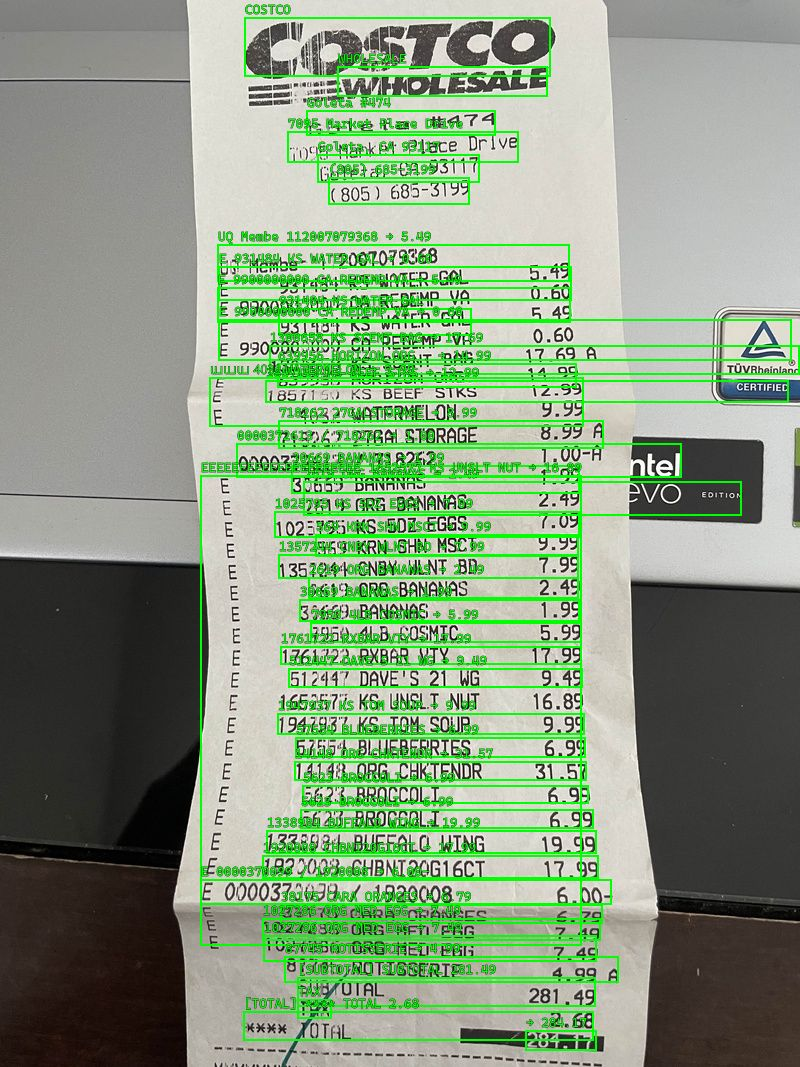
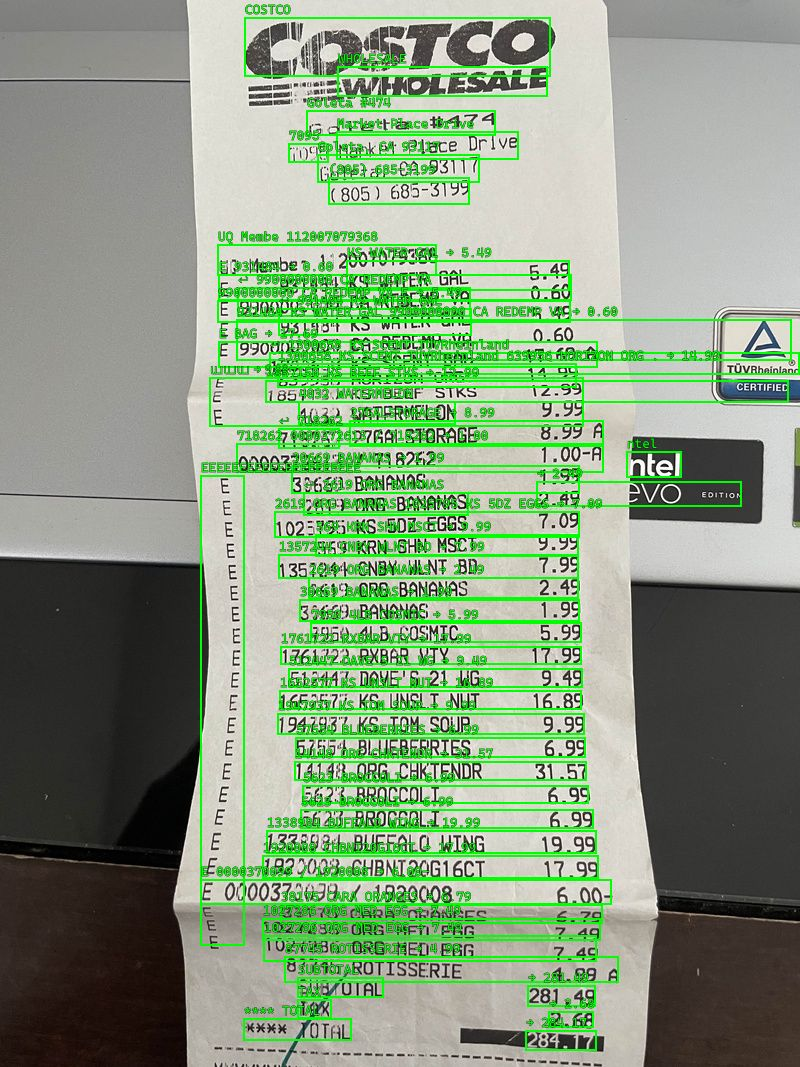
feat: output img has rotated boxes

Changed region(s): [[0.25, 0.2165, 1.0, 0.8969], [0.2812, 0.6186, 0.75, 0.9897], [0.3438, 0.0928, 0.6562, 0.1546]]

diff --git a/src/detect.ts b/src/detect.ts
@@ -6,7 +6,9 @@ import fs from 'fs';
 import path from 'path';
 
 import { reconstructLines } from './algorithm';
-import type { ReceiptLine } from './utils';
+import type { ReconstructionResult } from './algorithm';
+import type { ReceiptLine, Point } from './utils';
+import { rotatePoint } from './utils';
 
 type TextAnnotation = protos.google.cloud.vision.v1.IEntityAnnotation;
 type Vertex = protos.google.cloud.vision.v1.IVertex;
@@ -21,31 +23,55 @@ interface LineAnnotation {
 }
 
 /**
- * Merges all word bounding boxes in a line into one axis-aligned rectangle.
+ * Builds a rotated bounding box for a line:
+ *   1. Collect all original vertices from every word in the line.
+ *   2. Rotate them by −θ into the straightened coordinate system.
+ *   3. Compute the axis-aligned bounding box in that space.
+ *   4. Rotate the 4 AABB corners back by +θ into image space.
+ *
+ * The result is a tilted rectangle that follows the text baseline.
  */
-function mergeLineBoundingBox(
+function mergeRotatedBoundingBox(
   lineWords: TextAnnotation[],
+  angle: number,
 ): LineAnnotation['boundingPoly'] {
-  const allVerts = lineWords.flatMap((w) => w.boundingPoly?.vertices ?? []);
+  const allVerts = lineWords.flatMap((w) =>
+    (w.boundingPoly?.vertices ?? []).map((v) => ({
+      x: v.x ?? 0,
+      y: v.y ?? 0,
+    })),
+  );
+
   if (allVerts.length === 0) {
     const zero = { x: 0, y: 0 } as Required<Vertex>;
     return { vertices: [zero, zero, zero, zero] };
   }
 
-  const xs = allVerts.map((v) => v.x ?? 0);
-  const ys = allVerts.map((v) => v.y ?? 0);
-  const minX = Math.min(...xs);
-  const maxX = Math.max(...xs);
-  const minY = Math.min(...ys);
-  const maxY = Math.max(...ys);
+  // Rotate into straightened space
+  const rotated = allVerts.map((v) => rotatePoint(v, -angle));
+  const rxs = rotated.map((v) => v.x);
+  const rys = rotated.map((v) => v.y);
+  const minX = Math.min(...rxs);
+  const maxX = Math.max(...rxs);
+  const minY = Math.min(...rys);
+  const maxY = Math.max(...rys);
+
+  // AABB corners in rotated space (TL, TR, BR, BL)
+  const corners: Point[] = [
+    { x: minX, y: minY },
+    { x: maxX, y: minY },
+    { x: maxX, y: maxY },
+    { x: minX, y: maxY },
+  ];
+
+  // Rotate back into image space
+  const imageCorners = corners.map((c) => rotatePoint(c, angle));
 
   return {
-    vertices: [
-      { x: minX, y: minY },
-      { x: maxX, y: minY },
-      { x: maxX, y: maxY },
-      { x: minX, y: maxY },
-    ] as Required<Vertex>[],
+    vertices: imageCorners.map((c) => ({
+      x: Math.round(c.x),
+      y: Math.round(c.y),
+    })) as Required<Vertex>[],
   };
 }
 
@@ -134,13 +160,16 @@ async function detectTextLocal(filePath: string): Promise<void> {
   console.log(detections[0].description);
 
   // Reconstruct receipt lines using the hybrid algorithm
-  const receiptLines = reconstructLines(detections.slice(1));
+  const { lines: receiptLines, angle } = reconstructLines(detections.slice(1));
 
-  // Build line annotations for the annotated-image overlay
+  console.log(`\nEstimated rotation: ${(angle * 180 / Math.PI).toFixed(2)}°\n`);
+
+  // Build line annotations with rotated bounding boxes
   const lineAnnotations: LineAnnotation[] = receiptLines.map((line) => ({
     description: formatLineLabel(line),
-    boundingPoly: mergeLineBoundingBox(
+    boundingPoly: mergeRotatedBoundingBox(
       line.words.map((w) => w.original),
+      angle,
     ),
   }));
 
@@ -185,7 +214,9 @@ async function detectTextRemote(imageUri: string): Promise<void> {
   console.log(detections[0].description);
 
   // Reconstruct receipt lines using the hybrid algorithm
-  const receiptLines = reconstructLines(detections.slice(1));
+  const { lines: receiptLines, angle } = reconstructLines(detections.slice(1));
+
+  console.log(`\nEstimated rotation: ${(angle * 180 / Math.PI).toFixed(2)}°\n`);
 
   console.log('\n=== Reconstructed Lines ===');
   receiptLines.forEach((line, i) => {

diff --git a/src/algorithm.ts b/src/algorithm.ts
@@ -412,17 +412,24 @@ function handleWrappedNames(lines: ReceiptLine[], medH: number): void {
    Public entry point
    ═══════════════════════════════════════════════════════════════════════════ */
 
+export interface ReconstructionResult {
+  /** Ordered receipt lines, top-to-bottom. */
+  lines: ReceiptLine[];
+  /** The global rotation angle (radians) estimated in Stage 1. */
+  angle: number;
+}
+
 /**
  * Reconstruct ordered receipt lines from an unordered list of word-level
  * OCR annotations.  Pass `detections.slice(1)` (skip the full-text block).
  *
- * Returns one `ReceiptLine` per visual line, top-to-bottom.
+ * Returns the receipt lines plus the estimated rotation angle.
  */
 export function reconstructLines(
   annotations: TextAnnotation[],
-): ReceiptLine[] {
+): ReconstructionResult {
   const boxes = annotations.map(annotationToWordBox);
-  if (boxes.length === 0) return [];
+  if (boxes.length === 0) return { lines: [], angle: 0 };
 
   const medH = median(boxes.map((b) => b.height));
 
@@ -477,5 +484,5 @@ export function reconstructLines(
   // ── Edge cases ────────────────────────────────────────────────────────
   handleWrappedNames(receiptLines, medH);
 
-  return receiptLines;
+  return { lines: receiptLines, angle };
 }
